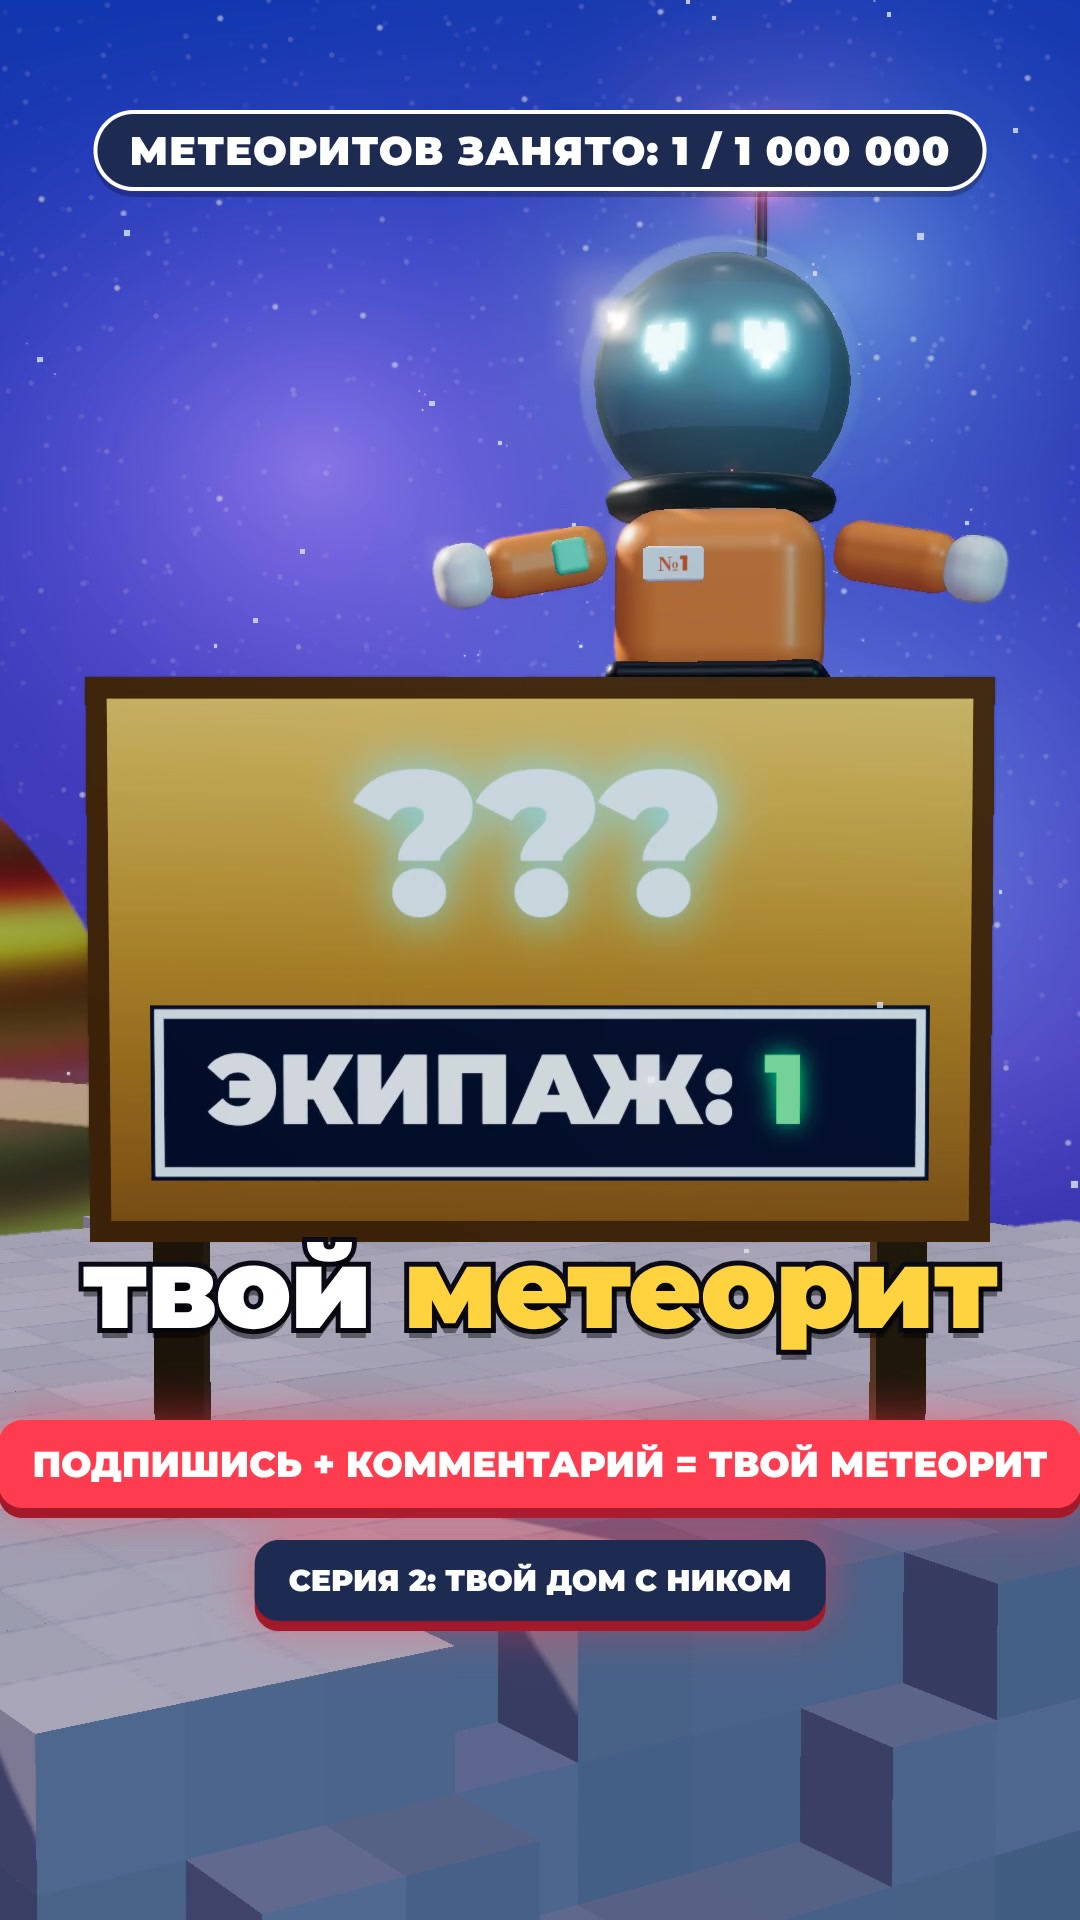
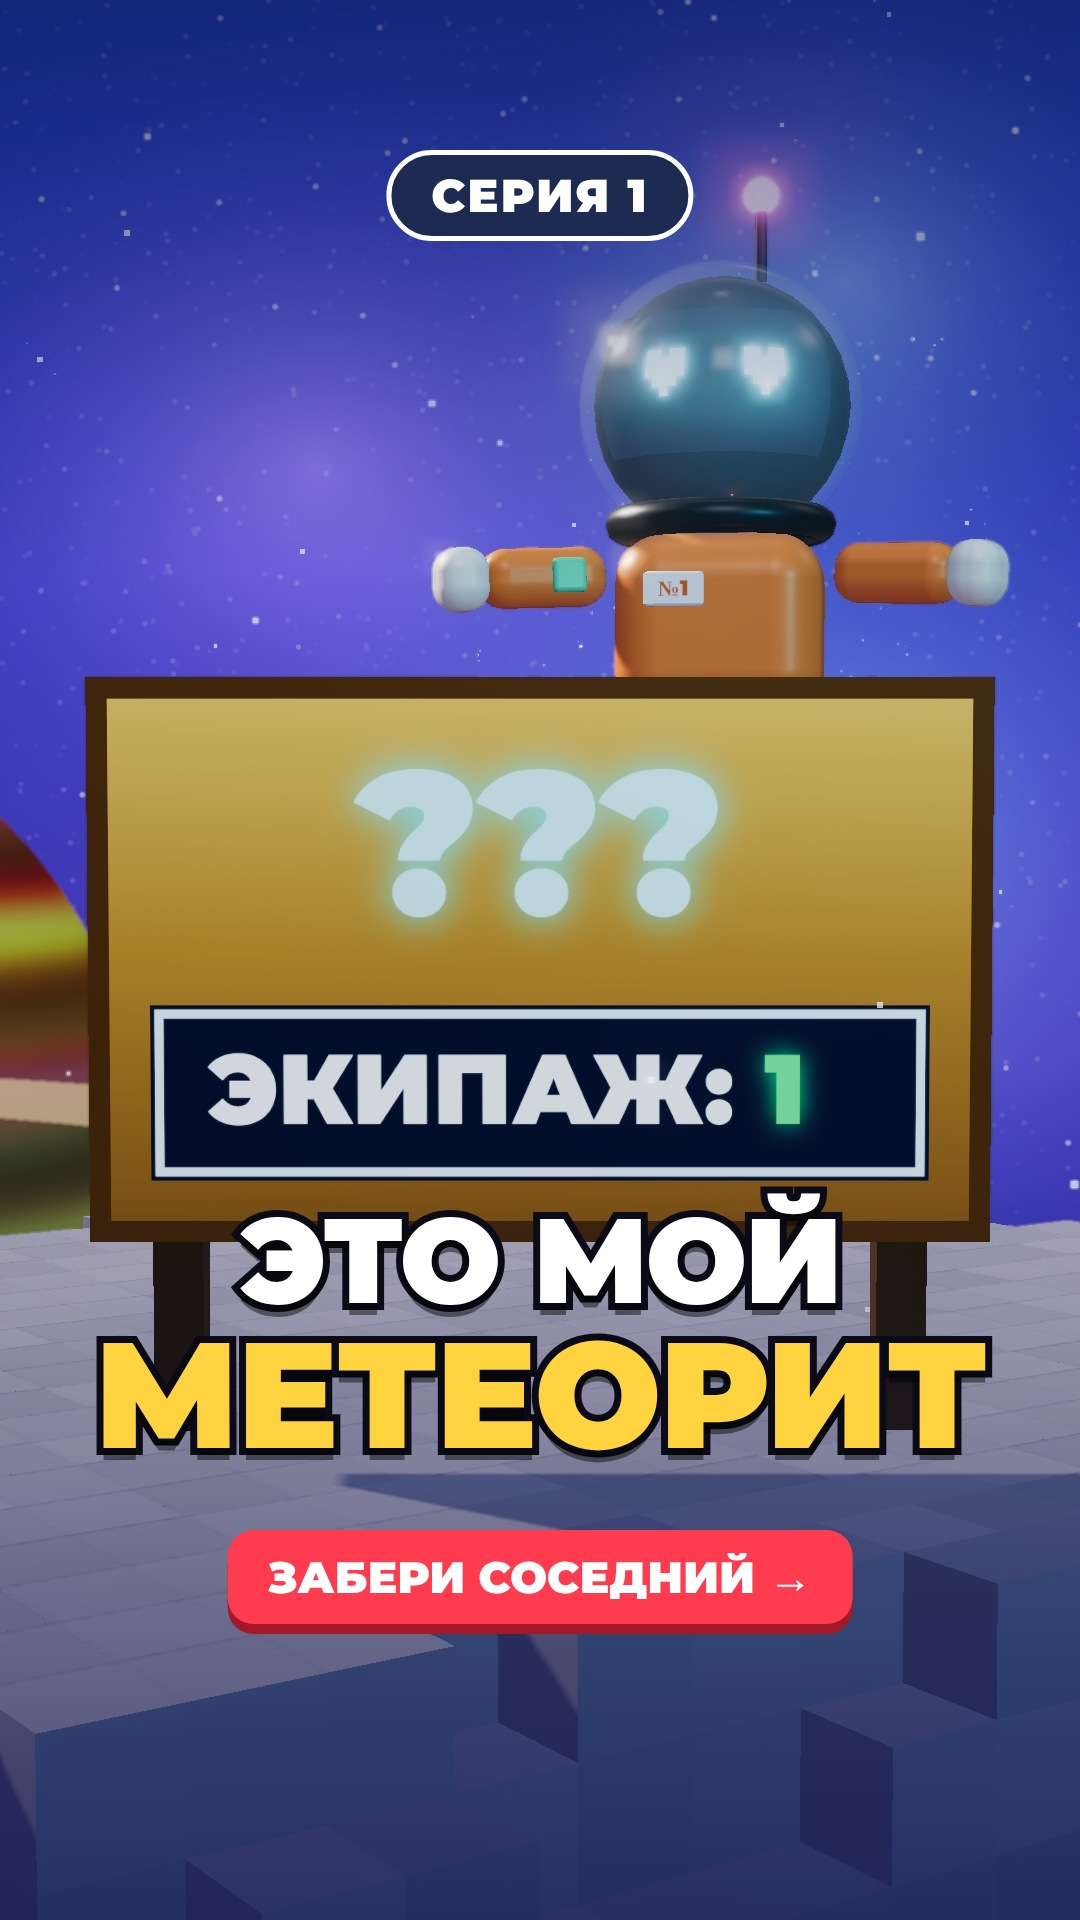
Episode 1: cover and publication text (title, description, tags)
Claude-Session: https://claude.ai/code/session_016pR9oEj5MWHV9PKkxUgw4F

diff --git a/stsenarii/01-moy-meteorit.publikatsiya.md b/stsenarii/01-moy-meteorit.publikatsiya.md
@@ -1,0 +1,36 @@
+# Публикация: серия 1 «Мой метеорит»
+
+Видео: `gotovo/01-moy-meteorit.mp4` · Обложка: `gotovo/01-moy-meteorit-oblozhka.jpg`
+
+## Название
+**Это мой метеорит 🌠 Серия 1**
+
+YouTube Shorts (до 100 символов):
+**Это мой метеорит 🌠 Город подписчиков в космосе — серия 1 #shorts**
+
+## Описание
+
+### Instagram Reels / TikTok
+Метеоритов занято: 1 / 1 000 000 🌠
+Это Гоша, и он строит город на метеоритах 🚀
+Подпишись и напиши в комментариях, что построить на твоём метеорите — в следующей серии здесь появится твой метеорит с домом и твоим ником 🏠
+Зови друга — будете соседями 👇
+
+### YouTube Shorts
+Гоша живёт один на маленьком метеорите и строит город в космосе — вместе с подписчиками.
+Подпишись и напиши в комментариях, что построить: в следующей серии появится твой метеорит с домом и твоим ником.
+Метеоритов занято: 1 / 1 000 000.
+
+## Теги
+
+### Instagram (3–5 штук работают лучше длинных списков)
+#мультик #космос #метеорит #городподписчиков #анимация
+
+### TikTok
+#мультик #космос #анимация #3dанимация #городподписчиков #fyp
+
+### YouTube Shorts (в поле «Теги» и 2–3 в описании)
+мультик, космос, метеорит, анимация, 3d анимация, воксели, город подписчиков, гоша, строительство, shorts
+
+## Закреп-комментарий (сразу после публикации)
+Пишите, что построить на своём метеорите 👇 Первые жители появятся в серии 2 со своими никами!
